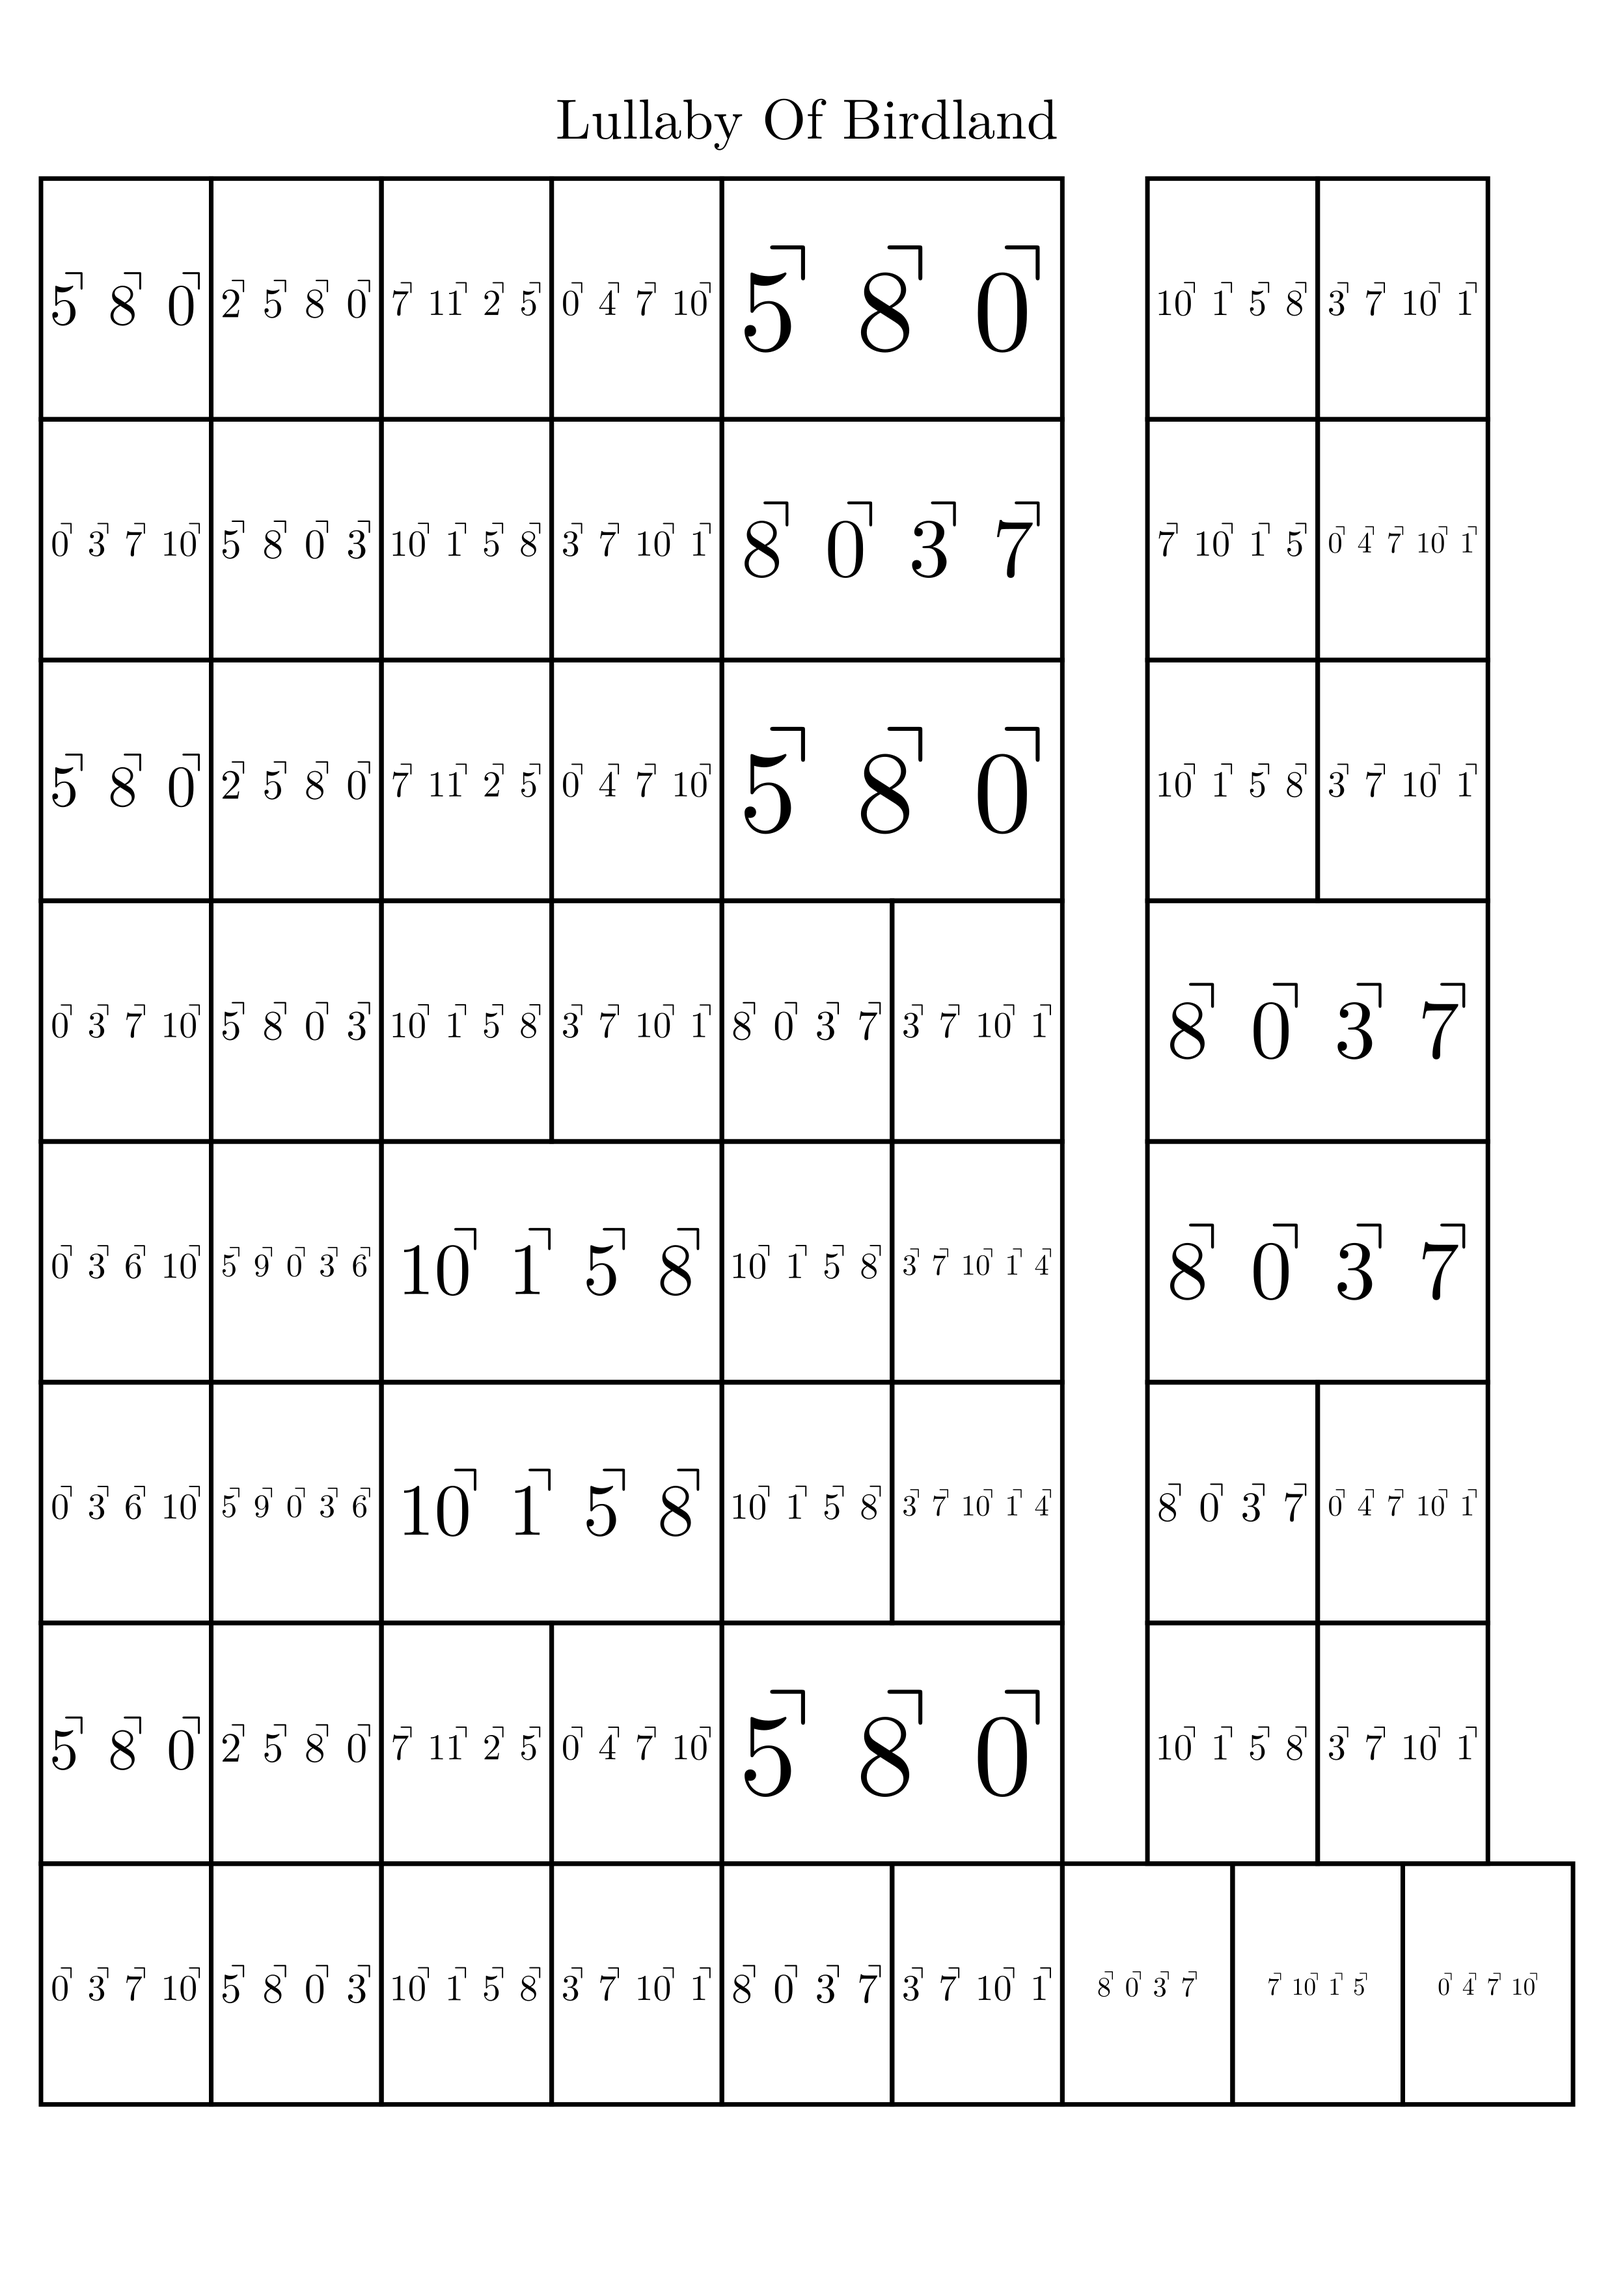
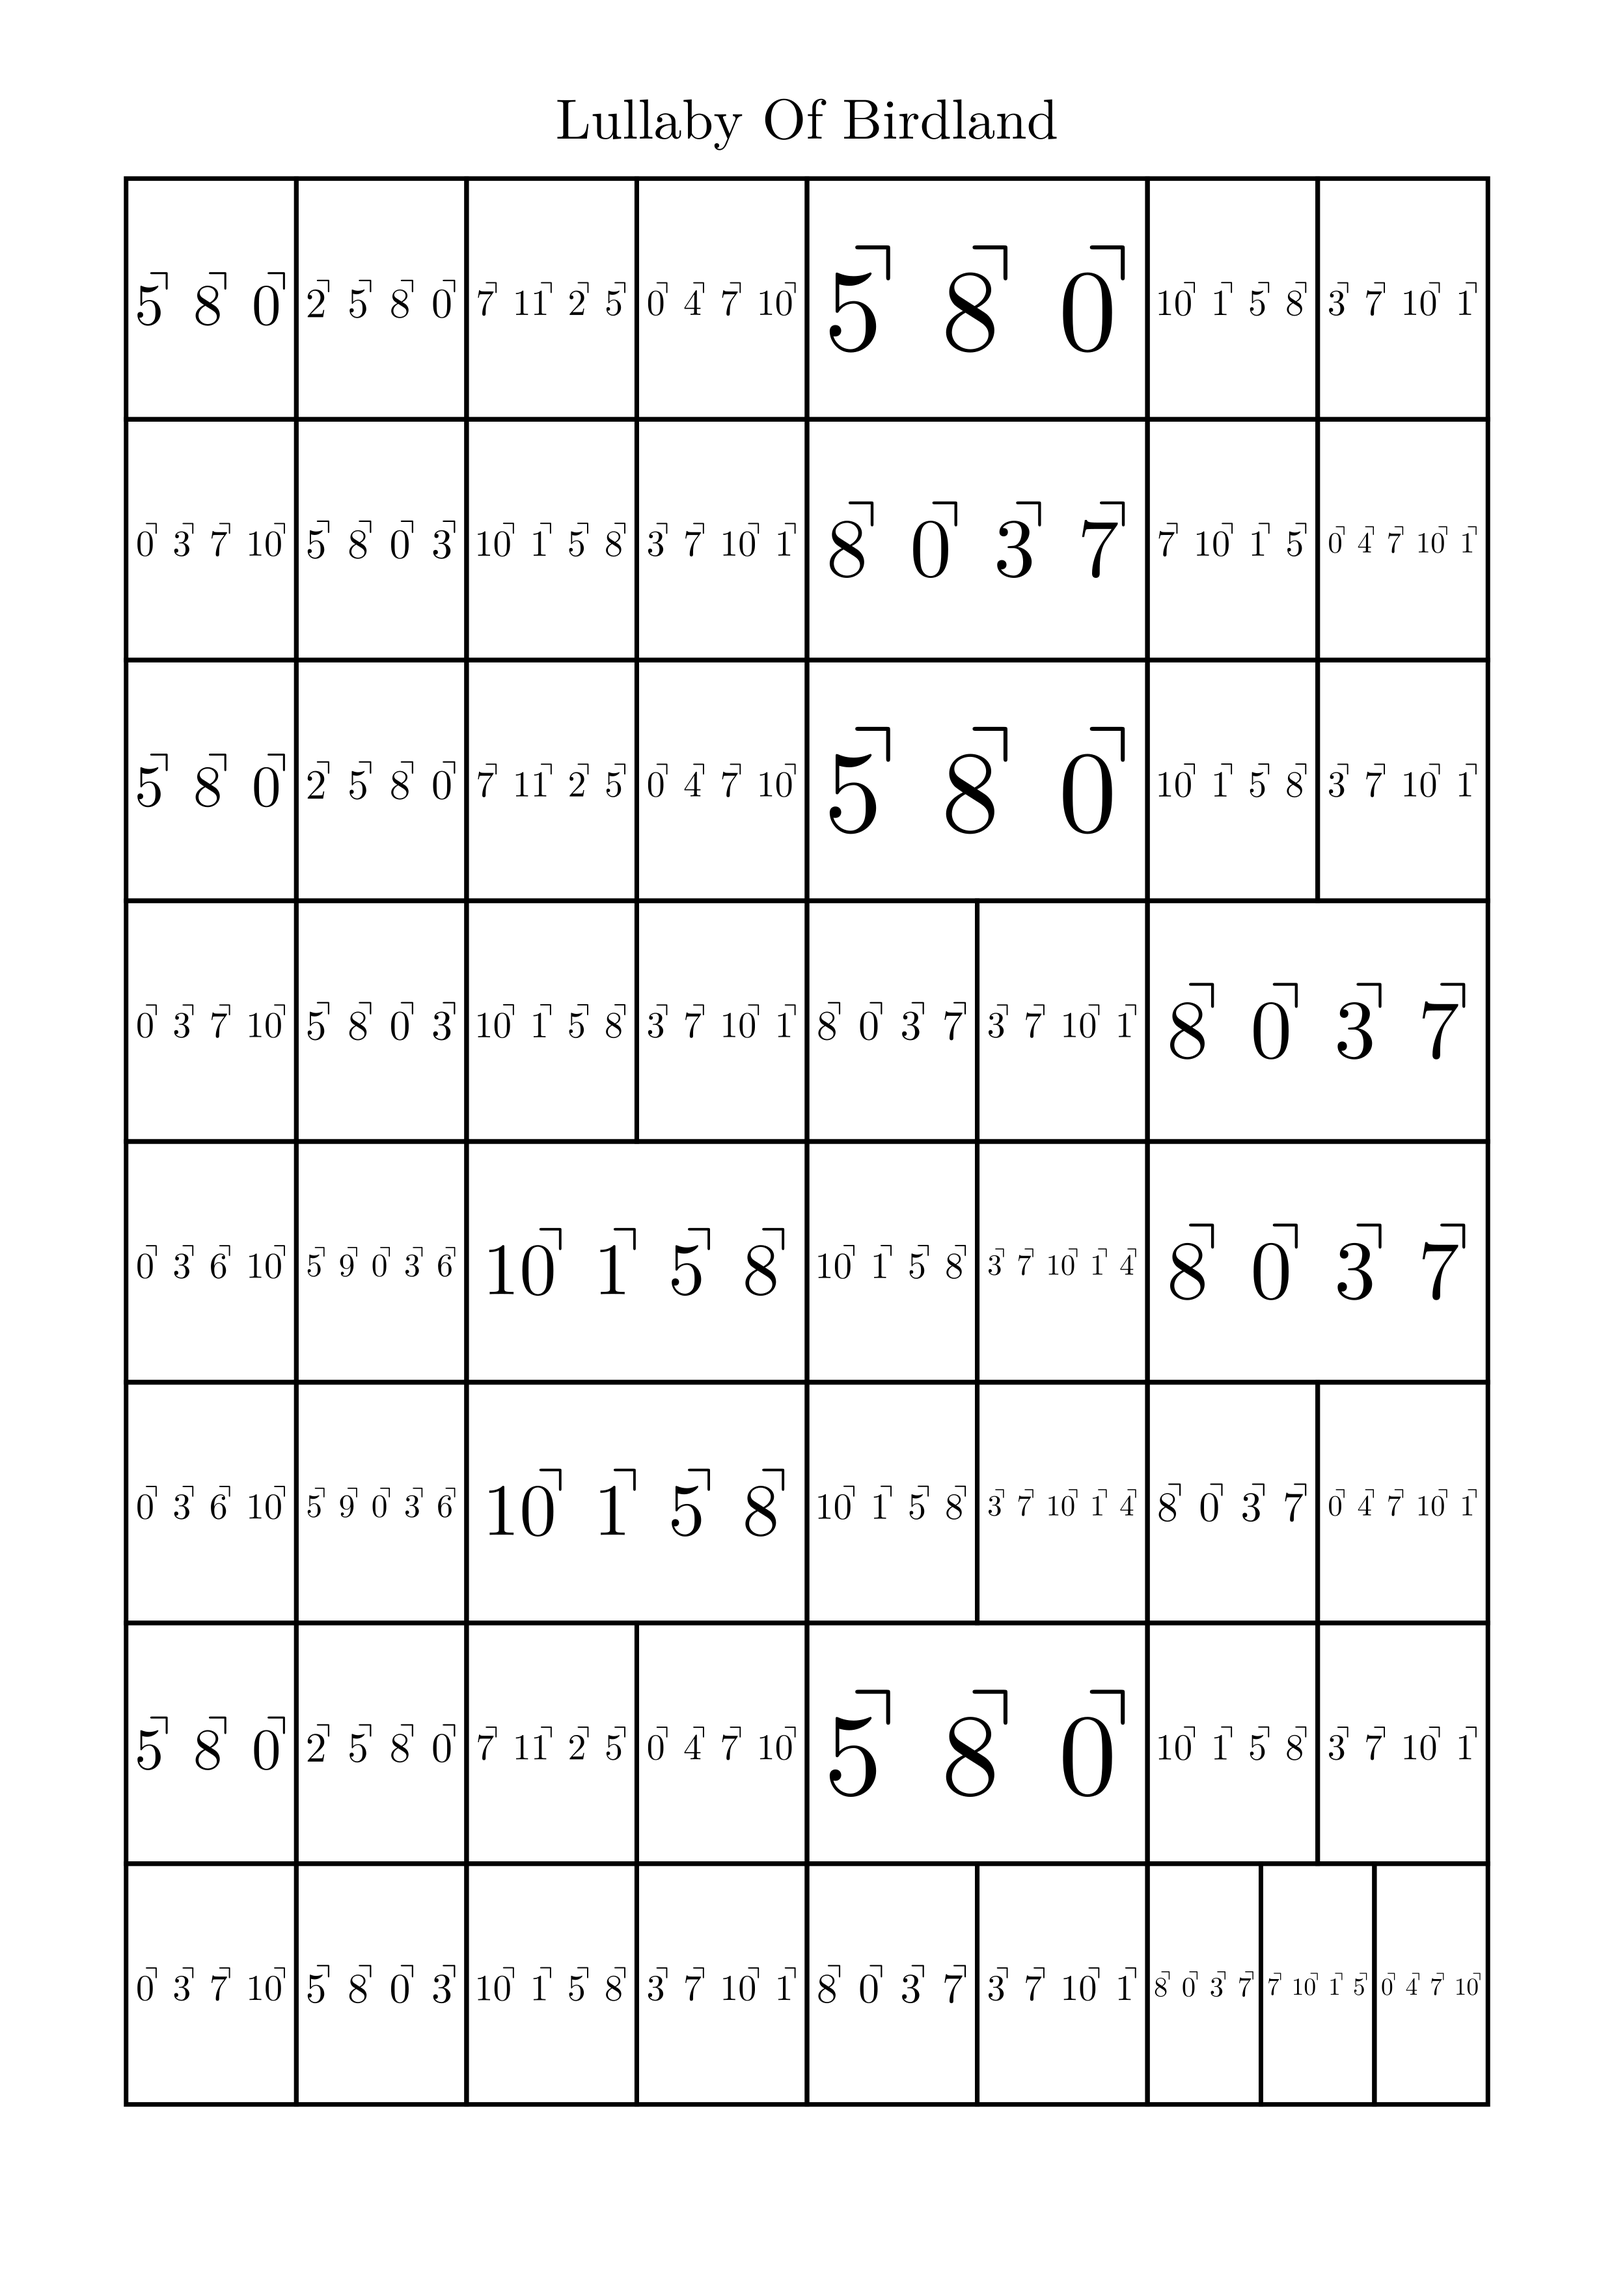
create lead sheet

diff --git a/lead_sheet_creator.py b/lead_sheet_creator.py
@@ -53,11 +53,12 @@ class TableAnimation(Scene):
                 for table_entry in row:
                     if table_entry.multi_entry:
                         rects = []
+                        n = len(table_entry.entries)
                         for entry_content in table_entry.entries:
                             rect_f = Rectangle(
-                                width=t_ctx.cell_width / 2, height=t_ctx.cell_height, color=table_color
+                                width=t_ctx.cell_width / n, height=t_ctx.cell_height, color=table_color
                             )
-                            apply_cell_sizing(t_ctx, entry_content, len(table_entry.entries))
+                            apply_cell_sizing(t_ctx, entry_content, n)
                             rect_f.add(entry_content)
                             rects.append(rect_f)
                         rect = VGroup(*rects).arrange(buff=0)
